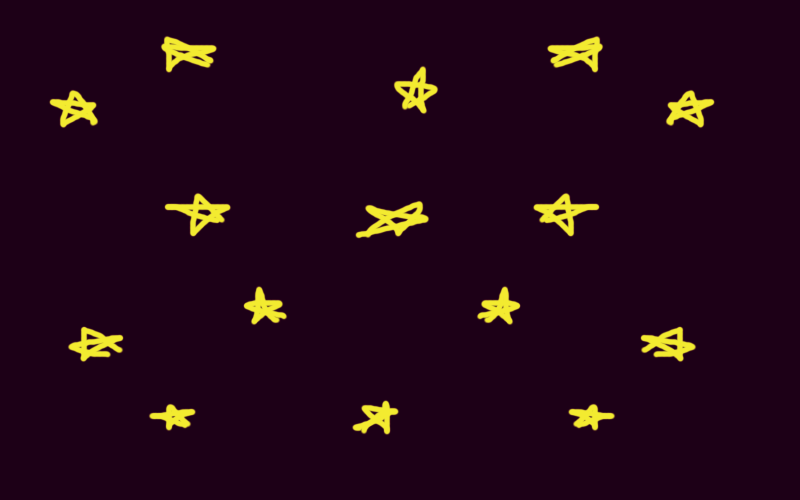
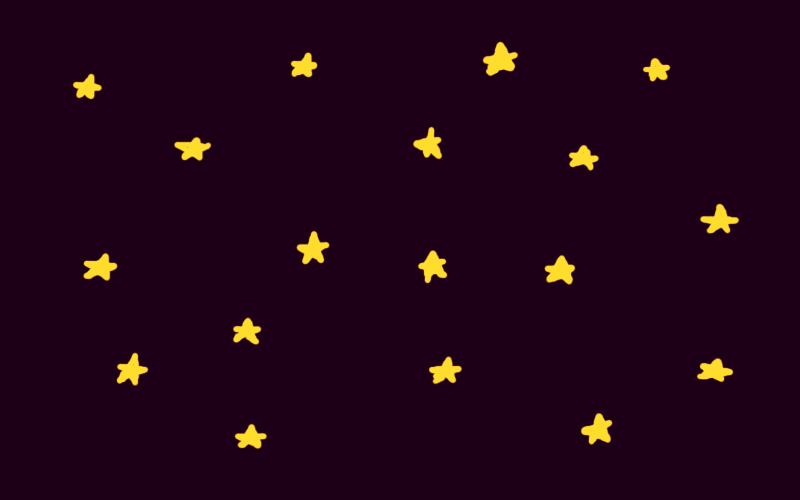
Version 0.3
- добавлены "пули"
- добавлен второй спрайт противника

diff --git a/ScrollGame/ScrollGame/Bullets.cs b/ScrollGame/ScrollGame/Bullets.cs
@@ -1,0 +1,38 @@
+using System;
+using System.Collections.Generic;
+using System.Linq;
+using System.Text;
+using Microsoft.Xna.Framework.Graphics;
+using Microsoft.Xna.Framework;
+
+namespace ScrollGame
+{
+    class Bullets
+    {
+        public Texture2D bullet;
+        public Rectangle bulletPosition;
+        public bool isVisible;
+
+        Menu menu;
+
+        public Bullets(Texture2D bullet, Rectangle mainPosition)
+        {
+            this.bullet = bullet;
+            isVisible = false;
+            bulletPosition.X = mainPosition.Left + 25;
+            bulletPosition.Y = mainPosition.Top;
+            bulletPosition.Height = 18;
+            bulletPosition.Width = 6;
+        }
+
+        public void Update()
+        {
+            bulletPosition.Y -= 4;
+        }
+
+        public void Draw(SpriteBatch spriteBatch)
+        {
+            spriteBatch.Draw(bullet, bulletPosition, Color.White);
+        }
+    }
+}

diff --git a/ScrollGame/ScrollGame/AnimationMain.cs b/ScrollGame/ScrollGame/AnimationMain.cs
@@ -17,7 +17,7 @@ namespace ScrollGame
 
         Texture2D main;
 
-        Rectangle position;
+        public Rectangle position;
 
         int frameWidth, frameHeight;
         public int FrameCount { get { return main.Width / frameWidth; } }

diff --git a/ScrollGame/ScrollGame/Background.cs b/ScrollGame/ScrollGame/Background.cs
@@ -30,7 +30,7 @@ namespace ScrollGame
 
         public void Update()
         {
-            screenpos.Y += 2;
+            screenpos.Y += 3;
             screenpos.Y = screenpos.Y % bckg.Height;
         }
 
